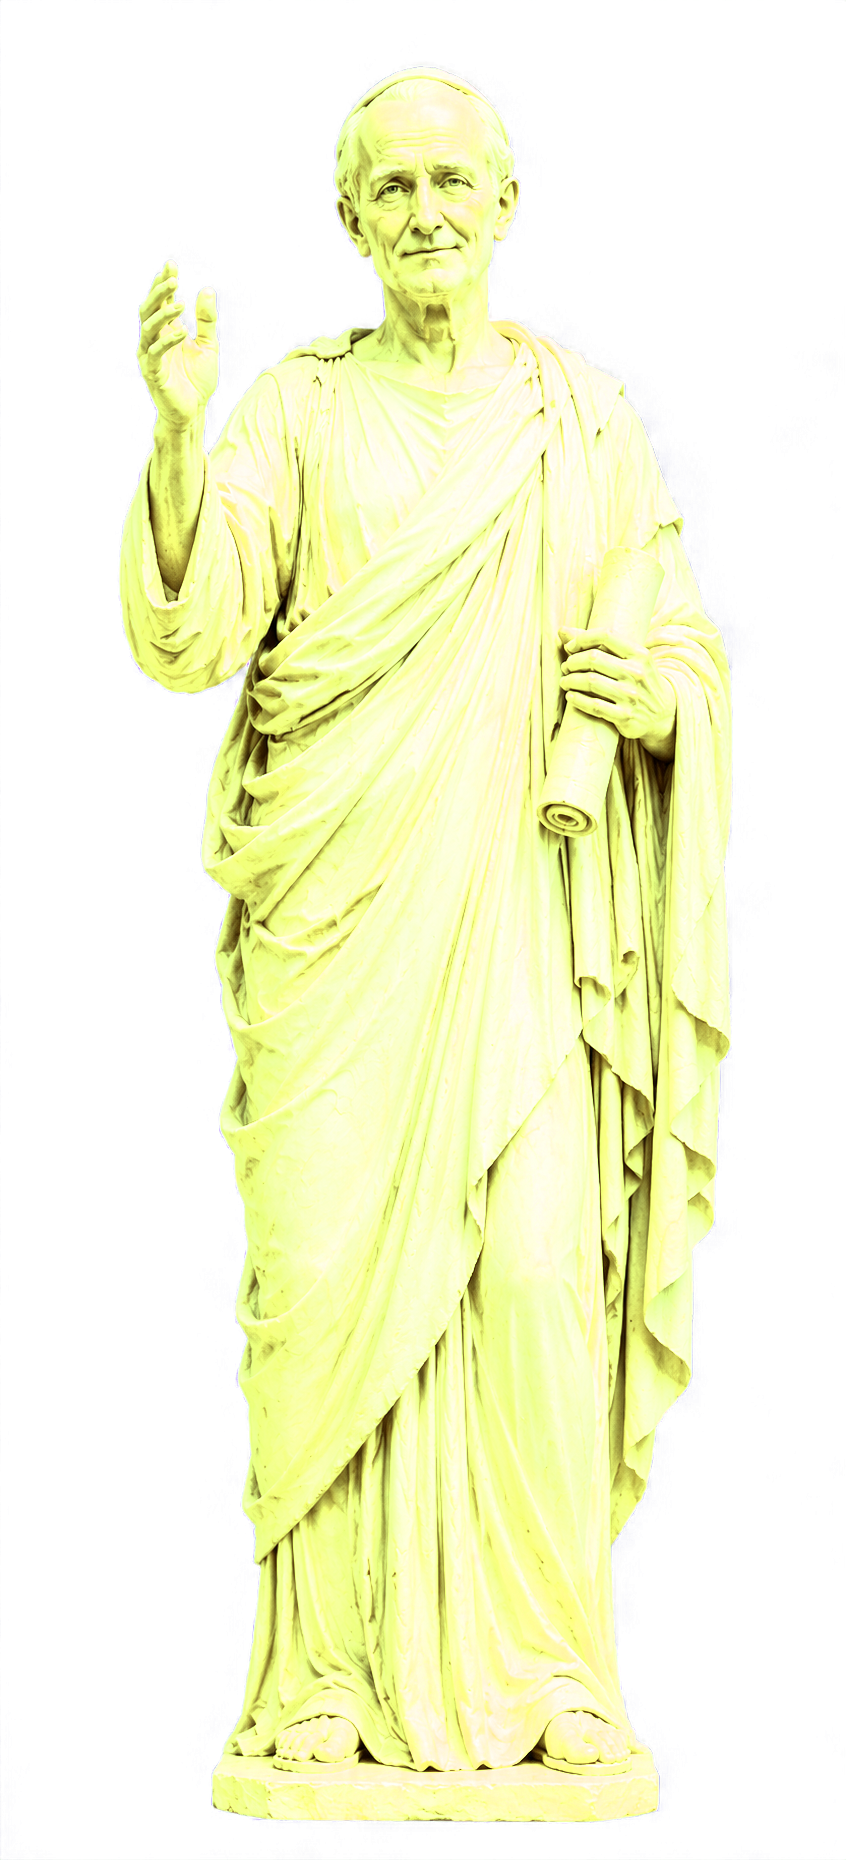
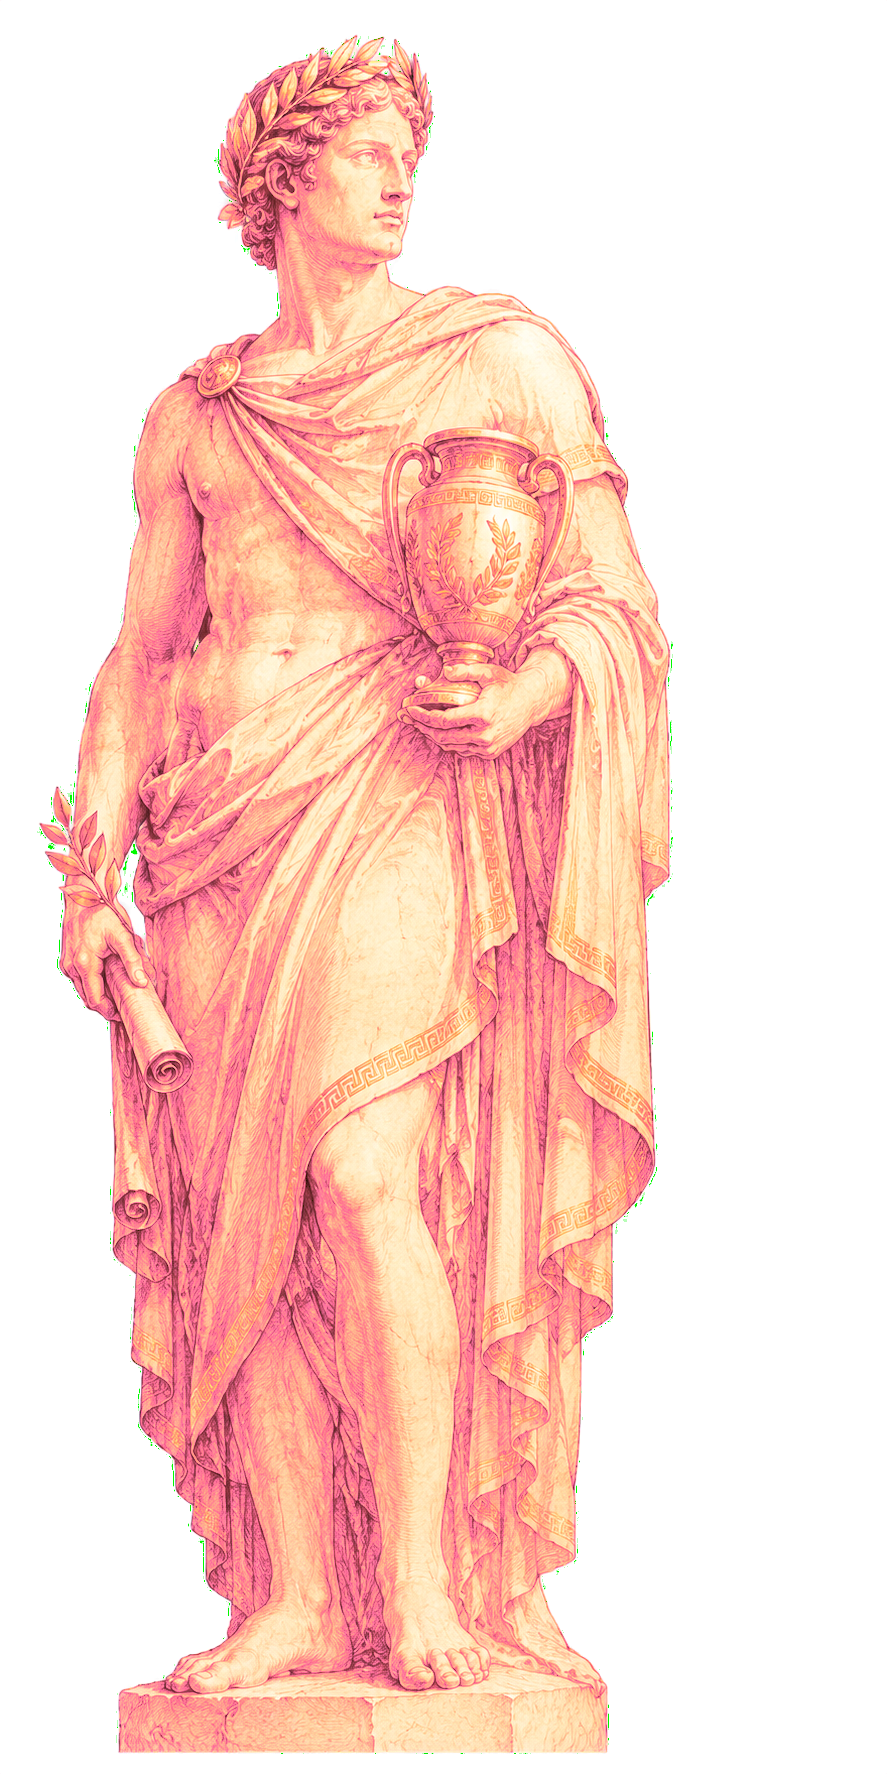
wyniki: dekoracje jak fresk grawerowany (blend multiply + sepia)
- usunieto external sidebars (amfora/filozof odklejone PNG po bokach)
- dodano 3 dekoracje WEWNATRZ pergaminu jako duchy:
  * results-statue-faded centralnie za tabela (opacity 0.14, multiply)
  * amfora w lewym dolnym rogu (opacity 0.28, multiply, sepia)
  * filozof w prawym dolnym rogu mirror (opacity 0.24, multiply, sepia)
- heraldy w info: opacity 0.35 + multiply zamiast realistycznych PNG
- wszystkie filtry: sepia + saturate + contrast + brightness + hue-rotate
- z-index zawartosci (header/tabela/legenda/info) zawsze ponad dekoracjami
- mobilki: dekoracje jeszcze subtelniejsze

diff --git a/styles-wyniki.css b/styles-wyniki.css
@@ -24,48 +24,13 @@
 }
 
 /* ==========================================================
-   STAGE — 3 kolumny: amfora | pergamin | filozof
+   STAGE — jeden kontener z pergaminem
    ========================================================== */
 .wyniki-page .wyniki-stage {
   position: relative;
-  width: min(1680px, calc(100% - 24px));
+  width: min(1480px, calc(100% - 24px));
   margin: 0 auto;
   padding: clamp(20px, 3vw, 40px) 0;
-  display: grid;
-  grid-template-columns: minmax(0, 0.16fr) minmax(0, 1fr) minmax(0, 0.16fr);
-  align-items: stretch;
-  gap: clamp(8px, 1.4vw, 20px);
-}
-
-/* Boczne sidebary z dekoracjami */
-.wyniki-page .wyniki-side {
-  position: relative;
-  display: flex;
-  align-items: center;
-  justify-content: center;
-}
-
-.wyniki-page .wyniki-side-img {
-  max-width: 100%;
-  height: auto;
-  max-height: 720px;
-  object-fit: contain;
-  filter: drop-shadow(0 12px 24px rgba(0, 0, 0, 0.6)) sepia(0.3) hue-rotate(-10deg) saturate(1.2);
-  opacity: 0.95;
-}
-
-/* Filozof: niewielkie odwrocenie zeby patrzyl w srodek */
-.wyniki-page .wyniki-side-right .wyniki-side-img {
-  transform: scaleX(-1);
-}
-
-@media (max-width: 1180px) {
-  .wyniki-page .wyniki-stage {
-    grid-template-columns: 1fr;
-  }
-  .wyniki-page .wyniki-side {
-    display: none;
-  }
 }
 
 /* ==========================================================
@@ -86,6 +51,100 @@
     0 24px 70px rgba(0, 0, 0, 0.5),
     inset 0 0 0 1px rgba(255, 248, 230, 0.18),
     inset 0 0 90px rgba(123, 78, 28, 0.2);
+  overflow: hidden;
+  isolation: isolate;
+}
+
+/* ==========================================================
+   DEKORACJE WEWNĄTRZ pergaminu — jak fresk/grawerunek.
+   Subtelne, blend-multiply, nigdy nie konkuruja z tabela.
+   ========================================================== */
+.wyniki-page .wyniki-decor {
+  position: absolute;
+  z-index: 0;
+  pointer-events: none;
+  overflow: hidden;
+}
+
+.wyniki-page .wyniki-decor img {
+  width: 100%;
+  height: 100%;
+  object-fit: contain;
+  object-position: bottom center;
+  display: block;
+}
+
+/* Centralny posąg (results-statue-faded) — wielki, w samym środku za tabela
+   bardzo subtelny, jak wyblakły fresk. */
+.wyniki-page .wyniki-decor-statue {
+  top: 8%;
+  left: 50%;
+  transform: translateX(-50%);
+  width: min(64%, 720px);
+  height: 88%;
+}
+
+.wyniki-page .wyniki-decor-statue img {
+  opacity: 0.14;
+  mix-blend-mode: multiply;
+  filter: sepia(0.85) saturate(1.4) contrast(1.05) brightness(0.92);
+}
+
+/* Amfora w lewym dolnym rogu, jakby część fresku na marginesie */
+.wyniki-page .wyniki-decor-amphora {
+  bottom: 4%;
+  left: -2%;
+  width: clamp(140px, 18vw, 280px);
+  height: clamp(220px, 28vw, 420px);
+}
+
+.wyniki-page .wyniki-decor-amphora img {
+  object-position: bottom left;
+  opacity: 0.28;
+  mix-blend-mode: multiply;
+  filter: sepia(0.9) saturate(1.6) contrast(1.1) brightness(0.85) hue-rotate(-8deg);
+}
+
+/* Filozof w prawym dolnym rogu, mirror w lewo (patrzy do środka) */
+.wyniki-page .wyniki-decor-philosopher {
+  bottom: 4%;
+  right: -2%;
+  width: clamp(140px, 18vw, 280px);
+  height: clamp(260px, 32vw, 480px);
+}
+
+.wyniki-page .wyniki-decor-philosopher img {
+  object-position: bottom right;
+  transform: scaleX(-1);
+  opacity: 0.24;
+  mix-blend-mode: multiply;
+  filter: sepia(0.9) saturate(1.4) contrast(1.05) brightness(0.88) hue-rotate(-8deg);
+}
+
+/* Wszystko ponad dekoracjami */
+.wyniki-page .wyniki-header,
+.wyniki-page .wyniki-table-wrap,
+.wyniki-page .wyniki-legend,
+.wyniki-page .wyniki-info {
+  position: relative;
+  z-index: 2;
+}
+
+/* Na mobilkach dekoracje schowane (nie ma sensu) */
+@media (max-width: 760px) {
+  .wyniki-page .wyniki-decor-amphora,
+  .wyniki-page .wyniki-decor-philosopher {
+    opacity: 0.5;
+  }
+  .wyniki-page .wyniki-decor-amphora img {
+    opacity: 0.18;
+  }
+  .wyniki-page .wyniki-decor-philosopher img {
+    opacity: 0.16;
+  }
+  .wyniki-page .wyniki-decor-statue img {
+    opacity: 0.1;
+  }
 }
 
 /* Header */
@@ -396,10 +455,12 @@
 
 .wyniki-page .wyniki-herald {
   width: 100%;
-  max-width: 140px;
+  max-width: 120px;
   height: auto;
   justify-self: center;
-  filter: drop-shadow(0 8px 16px rgba(0, 0, 0, 0.4)) sepia(0.3) saturate(1.2) hue-rotate(-10deg);
+  opacity: 0.35;
+  mix-blend-mode: multiply;
+  filter: sepia(0.9) saturate(1.5) contrast(1.1) brightness(0.88) hue-rotate(-10deg);
 }
 
 .wyniki-page .wyniki-herald-right {

diff --git a/wyniki.html b/wyniki.html
@@ -8,7 +8,7 @@
   <link rel="icon" type="image/png" href="assets/icons/favicon.png">
   <link rel="stylesheet" href="styles.css?v=15">
   <link rel="stylesheet" href="styles-index.css?v=10">
-  <link rel="stylesheet" href="styles-wyniki.css?v=1">
+  <link rel="stylesheet" href="styles-wyniki.css?v=2">
 </head>
 <body class="greek-page greek-home-redesign wyniki-page">
   <!-- Navbar (struktura zachowana dla auth.js) -->
@@ -42,13 +42,19 @@
   </div>
 
   <main class="wyniki-stage">
-    <!-- LEWA dekoracja: amfora na cokole -->
-    <aside class="wyniki-side wyniki-side-left" aria-hidden="true">
-      <img src="assets/decorations/amphora-black-gold.png" alt="" class="wyniki-side-img">
-    </aside>
-
-    <!-- ŚRODEK: pergaminowa karta z tabelą -->
+    <!-- Pergaminowa karta z tabelą + dekoracjami wkomponowanymi w tlo -->
     <div class="wyniki-parchment">
+      <!-- DEKORACJE: za zawartoscia, subtelne, jak fresk grawerowany -->
+      <div class="wyniki-decor wyniki-decor-statue" aria-hidden="true">
+        <img src="assets/decorations/results-statue-faded.png" alt="">
+      </div>
+      <div class="wyniki-decor wyniki-decor-amphora" aria-hidden="true">
+        <img src="assets/decorations/amphora-black-gold.png" alt="">
+      </div>
+      <div class="wyniki-decor wyniki-decor-philosopher" aria-hidden="true">
+        <img src="assets/decorations/figure-philosopher.png" alt="">
+      </div>
+
       <header class="wyniki-header">
         <span class="laurel-pair laurel-pair--section" aria-hidden="true">
           <img src="assets/decorations/laurel-divider.png" alt="" class="laurel-mirror">
@@ -94,11 +100,6 @@
         <img src="assets/decorations/herald-trumpet.png" alt="" class="wyniki-herald wyniki-herald-right">
       </section>
     </div>
-
-    <!-- PRAWA dekoracja: filozof -->
-    <aside class="wyniki-side wyniki-side-right" aria-hidden="true">
-      <img src="assets/decorations/figure-philosopher.png" alt="" class="wyniki-side-img">
-    </aside>
   </main>
 
   <!-- Greek border ozdobny u dołu -->